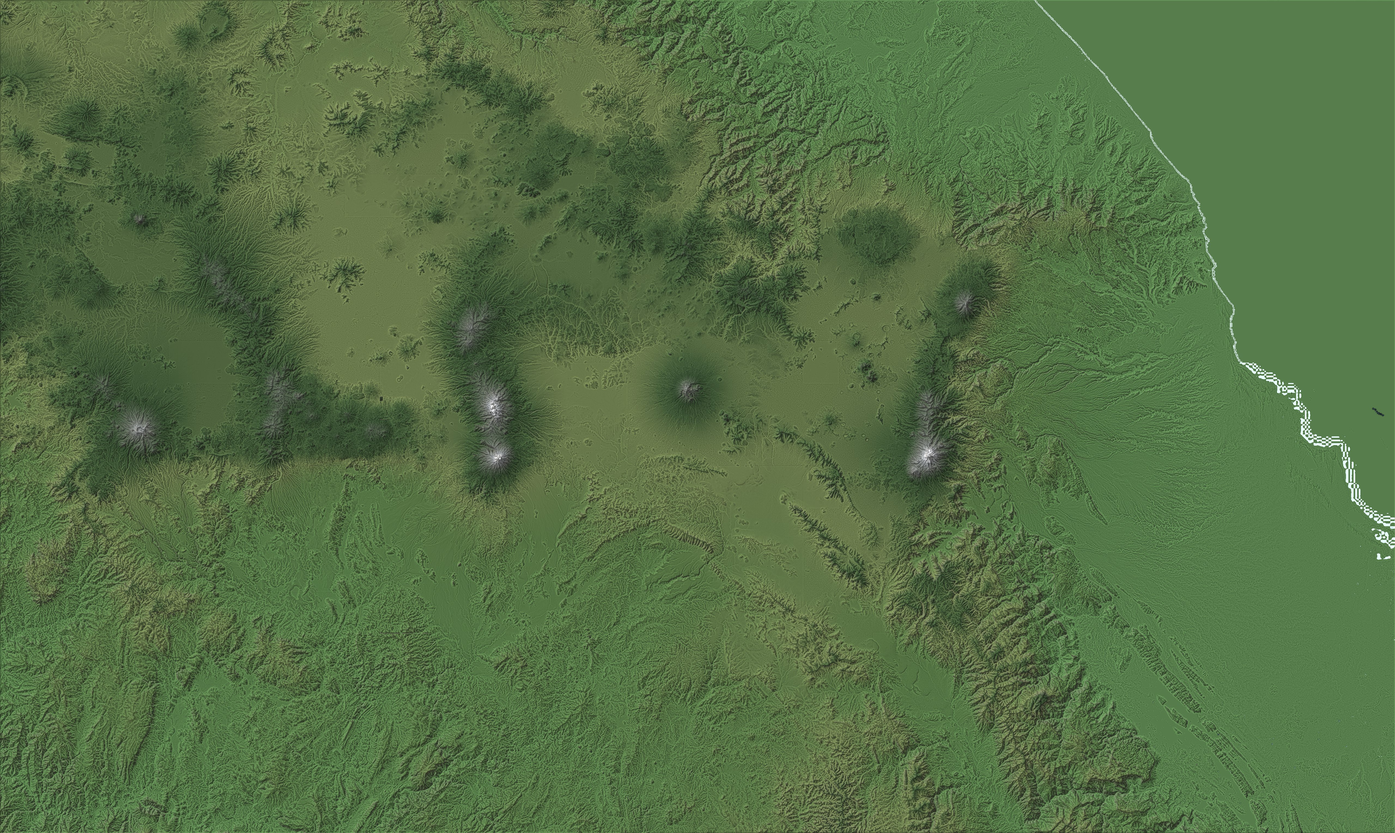
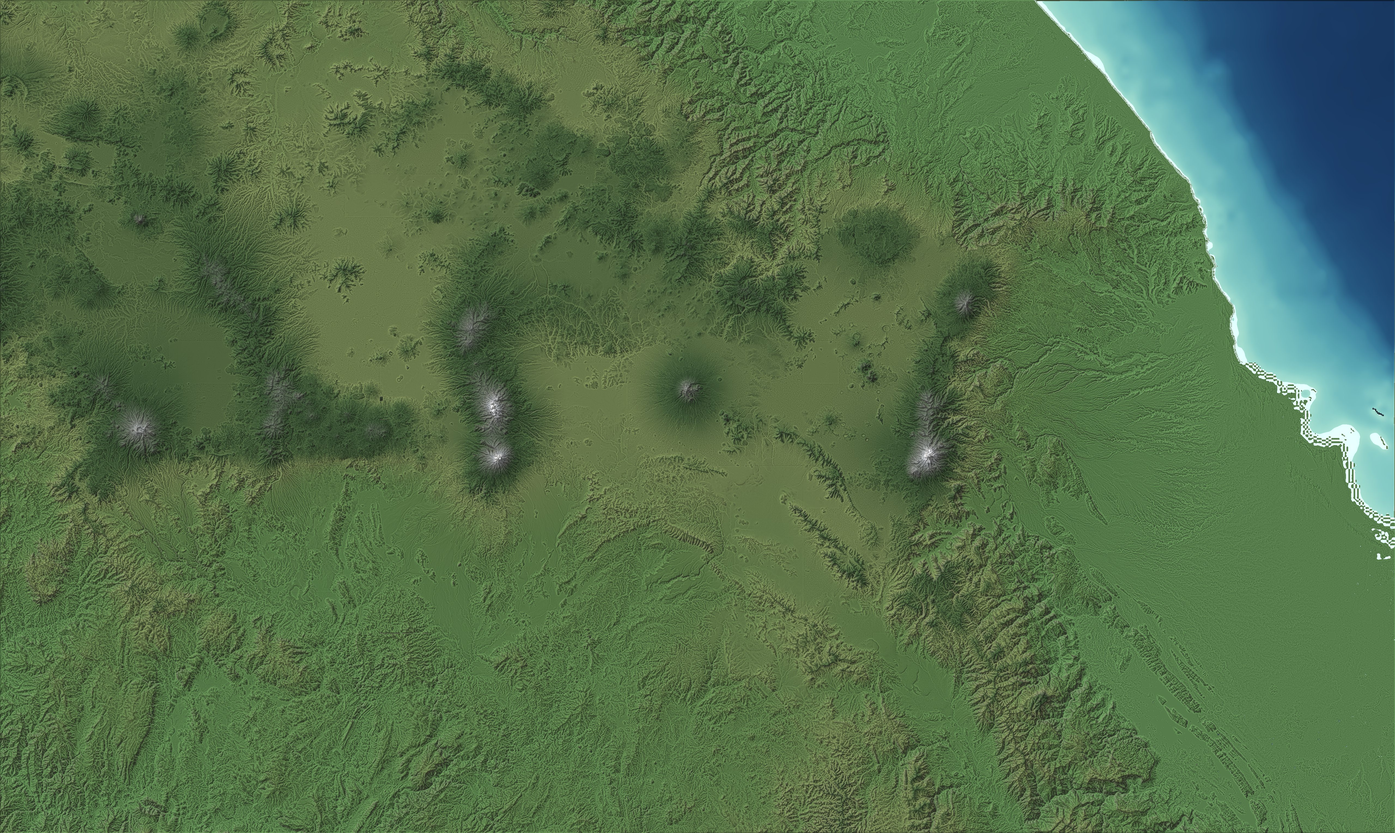
Water iter 3: no-data is not sea level, and img/ was never cache-busted
TWO REAL BUGS, both found by measuring instead of restyling.

1. Above z9 the terrain tiles carry NO bathymetry: every ocean pixel decodes
   to exactly 0.0 m. The land/sea test (E >= 0) then painted the Gulf as
   coastal LAND — 8.0% of the corridor grid, an olive sea with a hard seam
   where the corridor level ended. Bit-exact zero is now the no-data flag
   (real land at 0.000 m is vanishingly rare) and those pixels take their
   depth from the z9 mosaic, which does carry ETOPO; backfill smoothed,
   because a 4x-coarser grid pasted raw draws a terrace staircase that reads
   as sea-floor structure. Reported per view: corridor 8.0% -> 0.0%.

2. The build stamps CSS, JS and data but never img/. So the corrected ocean
   reached the browser as the OLD picture, and the fix looked like it had
   failed while the file on disk was already right. Terrain and card images
   now carry ?dv= too.

Also: sub-grid water fabric grown from measured relief — lineation only where
the floor is darker than its own neighbourhood, so flat abyss stays flat.

Changed region(s): [[0.75, 0.0, 1.0, 0.6209]]

diff --git a/docs/data/meta.js b/docs/data/meta.js
@@ -1,3 +1,3 @@
 /* GENERATED by Research/modeling/emit.py — do not hand-edit. */
 window.DATA = window.DATA || {};
-DATA.meta = {"t0":1502.0,"t1":1551.0,"step":0.02,"unit":"yr","speeds":[0.05,0.2,1,3,8,20],"dataVersion":"20260729-221816","timescale":[{"from":1502.0,"to":1519.1315,"w":0.22},{"from":1519.1315,"to":1521.6329,"w":0.56},{"from":1521.6329,"to":1551.0,"w":0.22}],"campaign":[1519.1315,1521.6329],"views":{"meso":{"lon0":-105.0,"lat0":13.5,"lon1":-86.5,"lat1":22.5,"label":"Mesoamerica"},"basin":{"lon0":-99.55,"lat0":19.02,"lon1":-98.55,"lat1":19.95,"label":"Basin of Mexico"},"city":{"lon0":-99.235,"lat0":19.325,"lon1":-99.03,"lat1":19.515,"label":"Tenochtitlan"}},"terrain":{"meso":{"lon0":-105.0,"lat0":13.5,"lon1":-86.5,"lat1":22.5},"corridor":{"lon0":-100.2,"lat0":17.9,"lon1":-95.8,"lat1":20.4},"basin":{"lon0":-99.55,"lat0":19.02,"lon1":-98.55,"lat1":19.95},"city":{"lon0":-99.32,"lat0":19.27,"lon1":-98.94,"lat1":19.57}},"layers":[{"id":"water","label":"Lakes & works (1519 reconstruction)","on":true},{"id":"altepetl","label":"Altepetl & allegiance","on":true},{"id":"epidemic","label":"Epidemic wave (modelled)","on":true},{"id":"tribute","label":"Tribute flows","on":true},{"id":"track","label":"Campaign track","on":true},{"id":"events","label":"Events","on":true},{"id":"works","label":"Causeways & aqueduct cards","on":true},{"id":"city","label":"City model (phased)","on":true},{"id":"figures","label":"Figures & life (impression)","on":true}],"siege":{"start":1521.386301369863,"end":1521.613698630137,"arteries":[{"id":"causeway-tlacopan","label":"Tlacopan causeway","cut":1521.3863,"confidence":"good"},{"id":"causeway-coyoacan","label":"Coyohuacan causeway","cut":1521.3863,"confidence":"good"},{"id":"causeway-iztapalapa","label":"Iztapalapan causeway","cut":1521.3863,"confidence":"good"},{"id":"aqueduct-chapultepec","label":"Chapultepec aqueduct (fresh water)","cut":1521.3973,"confidence":"good"},{"id":"lake","label":"The open lake (canoe supply)","cut":1521.4137,"confidence":"good"},{"id":"causeway-tepeyac","label":"Tepeyacac causeway","cut":1521.4384,"confidence":"moderate"}]},"epidemicBand":[30,50],"epidemicFront":{"lat":19.446,"lon":-96.404,"t0":1520.3552,"kmPerYear":844.3},"cityPhases":{"siege":1521.386301369863,"fall":1521.613698630137,"colonial":1522.0384},"stateColor":{"alliance-core":"#a83232","tributary":"#c96f4a","independent":"#7d5fb2","rival":"#8a6d3b","contested":"#d9a441","allied-coalition":"#3f8f6b","occupied":"#5a7d9a","colonial-ally":"#4a9a8f","new-spain":"#8a8f98","spanish":"#6b7fa8"},"stateLabel":{"alliance-core":"Triple Alliance seat","tributary":"Tributary","independent":"Independent","rival":"Rival empire","contested":"Contested","allied-coalition":"Coalition","occupied":"Occupied","colonial-ally":"Colonial ally (privileged)","new-spain":"New Spain","spanish":"Spanish foundation"},"about":{"what":"An interactive model of the fall of Tenochtitlan and its aftermath, 1502-1550: the tributary system, the coalition that pulled it apart, the siege, and the colonial consolidation — every polity's allegiance computed per day from dated, cited events.","naming":"\"Aztec\" appears in this project's title for findability only. It is a modern coinage and never a self-designation: this model says Mexica for the people, Triple Alliance for the polity, and each altepetl's own name — Nahuatl endonym first, Spanish exonym second.","notKnow":["The 1519 lake shoreline is a reconstruction (González Aparicio 1973), drawn here at visualization grade — the lakes were drained after the conquest.","The coastline and sierra are simplified authored cartography (the modern coast, at this drawing's resolution, stands in for 1519's); the epidemic layer is a modelled wave pinned only at its documented start and its documented arrival in the capital — every other onset is a window, not a record.","Indigenous force numbers are contested by an order of magnitude; population and epidemic mortality more. Every such quantity is a band, never a number.","Motive and speech are the least constrained things in the record. Contested episodes carry a 'What the sources say' section instead of a verdict.","Nahua calendar equivalents are correlations anchored at 13 Aug 1521 = 1 Cóatl; the correlation itself is contested and is labelled as such.","Allegiance below the altepetl is not modelled; 'contested' is the resolution floor. Post-war absorption dates marked 'modelled' are defaults, not records.","The 1524 Nuremberg woodcut is georeferenced and measured at a mean best-fit residual of 2.2 km (5.5 km at the city itself): topology, not geometry. It appears here as a document, and nothing in the model traces it.","Figure-scale scenes — the marching files, skirmishes, canoe traffic, porters, refugees, the city's house fabric and its trees — are procedural ARTISTIC IMPRESSIONS rooted in the accounts (Calnek's urban fabric; the chroniclers' canoe-borne city; the causeway exodus after the fall). Contingent sizes follow the model's own force bands; positions are deterministic seeds, not records. Nothing at figure scale is an attestation."],"sources":["Cortés, Cartas de relación (1519-26) — a legal self-defence, used as such","Bernal Díaz, Historia verdadera (c. 1568) — the soldiers' counter-memoir","Florentine Codex Book XII (c. 1555-79) — Nahua testimony, Tlatelolca vantage","Anales de Tlatelolco; Durán; Alva Ixtlilxóchitl; Muñoz Camargo","Codex Mendoza (Berdan & Anawalt 1992); Gerhard (1972); Smith & Berdan (1996)","González Aparicio (1973), Plano reconstructivo — the named lake reconstruction","Thomas (1993); Hassig (2006); Gibson (1964) — modern chronology and aftermath","Terrain: NASA/USGS SRTM elevation and NOAA ETOPO1 bathymetry via the AWS Open Data Terrain Tiles (Mapzen terrarium) — public domain sources, rendered by this project's own pipeline; the seasonal palette is a modelled rendering choice","Card images: public-domain scans via Wikimedia Commons (Newberry Library; Bodleian; Biblioteca Medicea Laurenziana; Library of Congress/Kislak; Uppsala University Library), each subject-verified and credited on its card"]},"updates":[{"version":"2.3","date":"28 July 2026","title":"The city, built","summary":"Tenochtitlan is no longer an outline with dots on it. Zoom in and the island has its fabric: blocks of courtyard compounds under lime and thatch, canals and streets with width, chinampa strips, jetties where the city meets its lake, the walled precinct with its stepped pyramid — and every other altepetl has a town of its own, on its own plan.","items":["The dense world moved to a canvas layer under the map, which is what makes thousands of buildings per frame affordable; everything you can click stays in the layer above it.","Blocks have grain: each shares an orientation off the canal line and a roofing material, with lordly four-wing compounds near the precinct, garden blocks, and tight commoner wards toward the water — Calnek's finding that lot sizes varied by an order of magnitude, made visible.","The sacred precincts are architecture: a walled, paved court with gates on the causeway axes, the great temple as five terraces with twin stairways and the shrines of Tlaloc and Huitzilopochtli, the round temple of Ehecatl, the ballcourt, the tzompantli, and the calmecac ranges along the walls.","Towns differ from each other: dispersed wards for Tlaxcallan's four cabeceras, compact plaza towns on the roads, linear towns along the lakeshore — and Cholula carries the Tlachihualtepetl, the greatest pyramid by volume in the Americas, grassed over already in 1519.","The siege is legible on the ground: the causeway breaches the defenders cut and the attackers spent the siege filling, the arteries reddening as each is severed, the island charring south to north under its smoke, and the market crowd thinning to nothing.","After 1522 the same ground rebuilds as the traza — red-tiled courtyard blocks around their patios, the plaza and cathedral on the razed precinct — while the Mexica parcialidades keep their old fabric at the edges.","Landscape detail is GROWN from the measured terrain rather than invented: the elevation data is 30 m and the screen asks for one, so woodland clusters where the ground is darker than its neighbourhood, with field terraces on worked land and grain over everything."]},{"version":"2.2","date":"27 July 2026","title":"Uniform ground, and the world peopled","summary":"The whole war theatre now carries the same sharp terrain — a new corridor render from Veracruz to the Basin ends the blur beyond the valley — and the model gains its figure scale: files of soldiers on the march, skirmishes you can watch, canoes on the lake, porters on the tribute roads, the exodus after the fall, and the island's own house fabric at street zoom. All of it impression, and labelled so.","items":["A z11 terrain level covers the corridor Veracruz-Tlaxcallan-Basin-Morelos, and the base map doubles to its data's native grain — the seam a reader rightly photographed east of the Basin is gone.","At street zoom Tenochtitlan fills with its houses — densest toward the precinct, charring south-to-north during the razing, rebuilt as orthogonal traza blocks after 1522 — with trees on the chinampa gardens.","The column marches as a file: a steel-grey Spanish file and the far longer tan allied file behind it, lengths scaled to the model's own force bands.","Battles play as scenes: defenders ring the ground, attackers close on it through the event's window; massacres close a ring instead. Deterministic in t — scrub back and the same scene replays.","The lake lives: canoe traffic runs between the shore towns and the island until the day the brigantines break the fleet, waterfowl drift indifferent, porters walk the tribute arcs while their towns still owe, and for six weeks after the fall the causeways carry the grey file of the exodus.","Every figure-scale element is a seeded procedural impression rooted in the accounts — counts from the force bands, nothing at figure scale an attestation — stated in About and on the layer's own name."]},{"version":"2.1","date":"27 July 2026","title":"The city itself, and the war in motion","summary":"Tenochtitlan stops being an outline: precincts, palaces, the canal fabric, the chinampa skirts and the four campan, phased across the timeline — intact, besieged and burning, ruined, then colonial. The terrain sharpens to its data's native grain, and events stop being identical diamonds: the column marches, battles pulse, the epidemic front expands, the arteries redden as they are cut.","items":["The city model (drawn from Calnek, the excavations and the street fossils of the modern Centro): sacred precincts, the palaces of Axayácatl and Moctezuma, the great market, schematic canals — dashed because schematic — chinampa fringes, then the colonial traza and its churches after 1522. Every element is a card; the same place reads differently in 1519 and 1540.","City events sit where they happened: the meeting at Xoloc on the causeway, the seizure in Axayácatl's palace, Tóxcatl in the precinct courtyard, the last stand in Tlatelolco's market — and labels stack instead of overprinting, so the plague year's crowded weeks read cleanly.","The war moves: the column is drawn in transit between its dated waypoints; battles and massacres pulse rings for days after their date; the arteries turn crimson as each is cut; brigantines hold the lake; smoke stands over the razing; the epidemic's modelled front expands from the coast.","Terrain at native grain (z9/z12) with curvature-shaded ravines and rock on steep ground — and a rendering lesson kept honest: the first city render amplified upsampling noise into a checkerboard, was caught visually, and the curvature now fades below the data's 30 m grain."]},{"version":"2.0","date":"27 July 2026","title":"A living landscape, a continuous camera, and the record illustrated","summary":"The map becomes terrain: real elevation and ocean depth (NASA SRTM and NOAA ETOPO), hillshaded and breathing with the wet and dry seasons. The camera zooms freely between the scales. Chapters open as illustrated cards, and the record's own images — codices, the Lienzo, the 1524 woodcut — appear on the cards they belong to, each with its credit.","items":["Terrain everywhere: the Basin's ravined sierra, the drained lakebed under the reconstructed 1519 lakes, the Gulf's turquoise shelf and the Pacific trench — measured data, rendered wet and dry; the seasons crossfade as the year turns.","Popocatépetl smokes for its attested 1519-1528 active years (see 'Ordaz climbs the smoking mountain'), and cloud shadows thicken with the rains.","Zoom with the wheel, pan by dragging, or fly between the three named scales; the terrain streams in sharper as you approach.","Chapters are cards now: click one for the period's story, its image and its events. Ten illustrated with the record's own pictures — Mendoza folios, Book XII's smallpox plate, the Lienzo de Tlaxcala, the Kislak Sad Night, the Uppsala map.","The 1524 Nuremberg map is georeferenced and measured: best-fit residual 2.2 km (5.5 km at the city) — beautiful topology, unusable geometry, and the About panel now says exactly that with the number.","Every image is public domain, subject-verified, and credited on its card; the five searches that found nothing licence-safe are recorded as negatives in the manifest rather than papered over."]},{"version":"1.1","date":"27 July 2026","title":"The land under the war — and the war's slower weapons","summary":"The map now has its ground: coasts, seas, the sierras and the named volcanoes (a first-release report said, correctly, that the map was a black background). And two layers stop being scenery: the smallpox is a modelled wave, and the siege is a derived state.","items":["Land and sea: a simplified authored coastline, the Gulf and Pacific, the great sierras and eight named peaks — including the two volcanoes whose pass the column crossed in November 1519.","The epidemic is a mechanism now: a wave on the settlement network, seeded at the coast in May 1520 and calibrated to the documented sixty days in the capital from October — every polity shows its modelled onset window, and mortality stays a band (30-50%, contested).","The siege is derived, not narrated: six arteries — four causeways, the aqueduct, the open lake — each cut by a dated, cited event; a panel counts the tourniquets 0 to 6 between 22 May and 13 August 1521.","Eighteen people join the model as time-aware cards — the three last tlahtohqueh, Malintzin (with the four-century argument about her carried as accounts), the Tlaxcalteca leadership, and the aftermath's builders.","Twenty-five new events carry the record to ~90, including the contested Guadalupe tradition (dated as tradition, with the documentary silence stated), don Carlos of Texcoco's burning, the Colegio de Tlatelolco, and Sahagún beginning the interviews that became this model's own chief source.","Province cards now list their principal Mendoza tribute — cacao, quetzal feathers, gold dust, cochineal — so the web the coalition broke is legible good by good."]},{"version":"1.0","date":"27 July 2026","title":"The coalition is on the map","summary":"First release. The map draws allegiance per altepetl per day — 75 polities through the war and its aftermath — instead of a two-colour conquest.","items":["Every polity's standing (tributary, contested, coalition, occupied, New Spain) is computed from 64 dated, cited events; the mid-siege map shows 24 allied and 12 occupied against 30 still-tributary — the coalition, visibly.","Contested episodes — Cholula, Tóxcatl, Moctezuma's death and his famous 'surrender' — carry a 'What the sources say' section naming who claims what and why each would.","The lakes, causeways, dike and aqueduct follow González Aparicio's 1973 reconstruction, scored against the Templo Mayor anchor table (residuals under 6 m; no town drawn in the water).","The timeline gives the two war years 56% of the track at day resolution, with the scale breaks drawn; dates are Julian, with Nahua equivalents labelled as the correlations they are.","Force numbers appear only as ranges: at the siege, 700-950 Spaniards beside 24,000-200,000 Nahua allies — the sources are parties to every count."]}]};
+DATA.meta = {"t0":1502.0,"t1":1551.0,"step":0.02,"unit":"yr","speeds":[0.05,0.2,1,3,8,20],"dataVersion":"20260729-224912","timescale":[{"from":1502.0,"to":1519.1315,"w":0.22},{"from":1519.1315,"to":1521.6329,"w":0.56},{"from":1521.6329,"to":1551.0,"w":0.22}],"campaign":[1519.1315,1521.6329],"views":{"meso":{"lon0":-105.0,"lat0":13.5,"lon1":-86.5,"lat1":22.5,"label":"Mesoamerica"},"basin":{"lon0":-99.55,"lat0":19.02,"lon1":-98.55,"lat1":19.95,"label":"Basin of Mexico"},"city":{"lon0":-99.235,"lat0":19.325,"lon1":-99.03,"lat1":19.515,"label":"Tenochtitlan"}},"terrain":{"meso":{"lon0":-105.0,"lat0":13.5,"lon1":-86.5,"lat1":22.5},"corridor":{"lon0":-100.2,"lat0":17.9,"lon1":-95.8,"lat1":20.4},"basin":{"lon0":-99.55,"lat0":19.02,"lon1":-98.55,"lat1":19.95},"city":{"lon0":-99.32,"lat0":19.27,"lon1":-98.94,"lat1":19.57}},"layers":[{"id":"water","label":"Lakes & works (1519 reconstruction)","on":true},{"id":"altepetl","label":"Altepetl & allegiance","on":true},{"id":"epidemic","label":"Epidemic wave (modelled)","on":true},{"id":"tribute","label":"Tribute flows","on":true},{"id":"track","label":"Campaign track","on":true},{"id":"events","label":"Events","on":true},{"id":"works","label":"Causeways & aqueduct cards","on":true},{"id":"city","label":"City model (phased)","on":true},{"id":"figures","label":"Figures & life (impression)","on":true}],"siege":{"start":1521.386301369863,"end":1521.613698630137,"arteries":[{"id":"causeway-tlacopan","label":"Tlacopan causeway","cut":1521.3863,"confidence":"good"},{"id":"causeway-coyoacan","label":"Coyohuacan causeway","cut":1521.3863,"confidence":"good"},{"id":"causeway-iztapalapa","label":"Iztapalapan causeway","cut":1521.3863,"confidence":"good"},{"id":"aqueduct-chapultepec","label":"Chapultepec aqueduct (fresh water)","cut":1521.3973,"confidence":"good"},{"id":"lake","label":"The open lake (canoe supply)","cut":1521.4137,"confidence":"good"},{"id":"causeway-tepeyac","label":"Tepeyacac causeway","cut":1521.4384,"confidence":"moderate"}]},"epidemicBand":[30,50],"epidemicFront":{"lat":19.446,"lon":-96.404,"t0":1520.3552,"kmPerYear":844.3},"cityPhases":{"siege":1521.386301369863,"fall":1521.613698630137,"colonial":1522.0384},"stateColor":{"alliance-core":"#a83232","tributary":"#c96f4a","independent":"#7d5fb2","rival":"#8a6d3b","contested":"#d9a441","allied-coalition":"#3f8f6b","occupied":"#5a7d9a","colonial-ally":"#4a9a8f","new-spain":"#8a8f98","spanish":"#6b7fa8"},"stateLabel":{"alliance-core":"Triple Alliance seat","tributary":"Tributary","independent":"Independent","rival":"Rival empire","contested":"Contested","allied-coalition":"Coalition","occupied":"Occupied","colonial-ally":"Colonial ally (privileged)","new-spain":"New Spain","spanish":"Spanish foundation"},"about":{"what":"An interactive model of the fall of Tenochtitlan and its aftermath, 1502-1550: the tributary system, the coalition that pulled it apart, the siege, and the colonial consolidation — every polity's allegiance computed per day from dated, cited events.","naming":"\"Aztec\" appears in this project's title for findability only. It is a modern coinage and never a self-designation: this model says Mexica for the people, Triple Alliance for the polity, and each altepetl's own name — Nahuatl endonym first, Spanish exonym second.","notKnow":["The 1519 lake shoreline is a reconstruction (González Aparicio 1973), drawn here at visualization grade — the lakes were drained after the conquest.","The coastline and sierra are simplified authored cartography (the modern coast, at this drawing's resolution, stands in for 1519's); the epidemic layer is a modelled wave pinned only at its documented start and its documented arrival in the capital — every other onset is a window, not a record.","Indigenous force numbers are contested by an order of magnitude; population and epidemic mortality more. Every such quantity is a band, never a number.","Motive and speech are the least constrained things in the record. Contested episodes carry a 'What the sources say' section instead of a verdict.","Nahua calendar equivalents are correlations anchored at 13 Aug 1521 = 1 Cóatl; the correlation itself is contested and is labelled as such.","Allegiance below the altepetl is not modelled; 'contested' is the resolution floor. Post-war absorption dates marked 'modelled' are defaults, not records.","The 1524 Nuremberg woodcut is georeferenced and measured at a mean best-fit residual of 2.2 km (5.5 km at the city itself): topology, not geometry. It appears here as a document, and nothing in the model traces it.","Figure-scale scenes — the marching files, skirmishes, canoe traffic, porters, refugees, the city's house fabric and its trees — are procedural ARTISTIC IMPRESSIONS rooted in the accounts (Calnek's urban fabric; the chroniclers' canoe-borne city; the causeway exodus after the fall). Contingent sizes follow the model's own force bands; positions are deterministic seeds, not records. Nothing at figure scale is an attestation."],"sources":["Cortés, Cartas de relación (1519-26) — a legal self-defence, used as such","Bernal Díaz, Historia verdadera (c. 1568) — the soldiers' counter-memoir","Florentine Codex Book XII (c. 1555-79) — Nahua testimony, Tlatelolca vantage","Anales de Tlatelolco; Durán; Alva Ixtlilxóchitl; Muñoz Camargo","Codex Mendoza (Berdan & Anawalt 1992); Gerhard (1972); Smith & Berdan (1996)","González Aparicio (1973), Plano reconstructivo — the named lake reconstruction","Thomas (1993); Hassig (2006); Gibson (1964) — modern chronology and aftermath","Terrain: NASA/USGS SRTM elevation and NOAA ETOPO1 bathymetry via the AWS Open Data Terrain Tiles (Mapzen terrarium) — public domain sources, rendered by this project's own pipeline; the seasonal palette is a modelled rendering choice","Card images: public-domain scans via Wikimedia Commons (Newberry Library; Bodleian; Biblioteca Medicea Laurenziana; Library of Congress/Kislak; Uppsala University Library), each subject-verified and credited on its card"]},"updates":[{"version":"2.3","date":"28 July 2026","title":"The city, built","summary":"Tenochtitlan is no longer an outline with dots on it. Zoom in and the island has its fabric: blocks of courtyard compounds under lime and thatch, canals and streets with width, chinampa strips, jetties where the city meets its lake, the walled precinct with its stepped pyramid — and every other altepetl has a town of its own, on its own plan.","items":["The dense world moved to a canvas layer under the map, which is what makes thousands of buildings per frame affordable; everything you can click stays in the layer above it.","Blocks have grain: each shares an orientation off the canal line and a roofing material, with lordly four-wing compounds near the precinct, garden blocks, and tight commoner wards toward the water — Calnek's finding that lot sizes varied by an order of magnitude, made visible.","The sacred precincts are architecture: a walled, paved court with gates on the causeway axes, the great temple as five terraces with twin stairways and the shrines of Tlaloc and Huitzilopochtli, the round temple of Ehecatl, the ballcourt, the tzompantli, and the calmecac ranges along the walls.","Towns differ from each other: dispersed wards for Tlaxcallan's four cabeceras, compact plaza towns on the roads, linear towns along the lakeshore — and Cholula carries the Tlachihualtepetl, the greatest pyramid by volume in the Americas, grassed over already in 1519.","The siege is legible on the ground: the causeway breaches the defenders cut and the attackers spent the siege filling, the arteries reddening as each is severed, the island charring south to north under its smoke, and the market crowd thinning to nothing.","After 1522 the same ground rebuilds as the traza — red-tiled courtyard blocks around their patios, the plaza and cathedral on the razed precinct — while the Mexica parcialidades keep their old fabric at the edges.","Landscape detail is GROWN from the measured terrain rather than invented: the elevation data is 30 m and the screen asks for one, so woodland clusters where the ground is darker than its neighbourhood, with field terraces on worked land and grain over everything."]},{"version":"2.2","date":"27 July 2026","title":"Uniform ground, and the world peopled","summary":"The whole war theatre now carries the same sharp terrain — a new corridor render from Veracruz to the Basin ends the blur beyond the valley — and the model gains its figure scale: files of soldiers on the march, skirmishes you can watch, canoes on the lake, porters on the tribute roads, the exodus after the fall, and the island's own house fabric at street zoom. All of it impression, and labelled so.","items":["A z11 terrain level covers the corridor Veracruz-Tlaxcallan-Basin-Morelos, and the base map doubles to its data's native grain — the seam a reader rightly photographed east of the Basin is gone.","At street zoom Tenochtitlan fills with its houses — densest toward the precinct, charring south-to-north during the razing, rebuilt as orthogonal traza blocks after 1522 — with trees on the chinampa gardens.","The column marches as a file: a steel-grey Spanish file and the far longer tan allied file behind it, lengths scaled to the model's own force bands.","Battles play as scenes: defenders ring the ground, attackers close on it through the event's window; massacres close a ring instead. Deterministic in t — scrub back and the same scene replays.","The lake lives: canoe traffic runs between the shore towns and the island until the day the brigantines break the fleet, waterfowl drift indifferent, porters walk the tribute arcs while their towns still owe, and for six weeks after the fall the causeways carry the grey file of the exodus.","Every figure-scale element is a seeded procedural impression rooted in the accounts — counts from the force bands, nothing at figure scale an attestation — stated in About and on the layer's own name."]},{"version":"2.1","date":"27 July 2026","title":"The city itself, and the war in motion","summary":"Tenochtitlan stops being an outline: precincts, palaces, the canal fabric, the chinampa skirts and the four campan, phased across the timeline — intact, besieged and burning, ruined, then colonial. The terrain sharpens to its data's native grain, and events stop being identical diamonds: the column marches, battles pulse, the epidemic front expands, the arteries redden as they are cut.","items":["The city model (drawn from Calnek, the excavations and the street fossils of the modern Centro): sacred precincts, the palaces of Axayácatl and Moctezuma, the great market, schematic canals — dashed because schematic — chinampa fringes, then the colonial traza and its churches after 1522. Every element is a card; the same place reads differently in 1519 and 1540.","City events sit where they happened: the meeting at Xoloc on the causeway, the seizure in Axayácatl's palace, Tóxcatl in the precinct courtyard, the last stand in Tlatelolco's market — and labels stack instead of overprinting, so the plague year's crowded weeks read cleanly.","The war moves: the column is drawn in transit between its dated waypoints; battles and massacres pulse rings for days after their date; the arteries turn crimson as each is cut; brigantines hold the lake; smoke stands over the razing; the epidemic's modelled front expands from the coast.","Terrain at native grain (z9/z12) with curvature-shaded ravines and rock on steep ground — and a rendering lesson kept honest: the first city render amplified upsampling noise into a checkerboard, was caught visually, and the curvature now fades below the data's 30 m grain."]},{"version":"2.0","date":"27 July 2026","title":"A living landscape, a continuous camera, and the record illustrated","summary":"The map becomes terrain: real elevation and ocean depth (NASA SRTM and NOAA ETOPO), hillshaded and breathing with the wet and dry seasons. The camera zooms freely between the scales. Chapters open as illustrated cards, and the record's own images — codices, the Lienzo, the 1524 woodcut — appear on the cards they belong to, each with its credit.","items":["Terrain everywhere: the Basin's ravined sierra, the drained lakebed under the reconstructed 1519 lakes, the Gulf's turquoise shelf and the Pacific trench — measured data, rendered wet and dry; the seasons crossfade as the year turns.","Popocatépetl smokes for its attested 1519-1528 active years (see 'Ordaz climbs the smoking mountain'), and cloud shadows thicken with the rains.","Zoom with the wheel, pan by dragging, or fly between the three named scales; the terrain streams in sharper as you approach.","Chapters are cards now: click one for the period's story, its image and its events. Ten illustrated with the record's own pictures — Mendoza folios, Book XII's smallpox plate, the Lienzo de Tlaxcala, the Kislak Sad Night, the Uppsala map.","The 1524 Nuremberg map is georeferenced and measured: best-fit residual 2.2 km (5.5 km at the city) — beautiful topology, unusable geometry, and the About panel now says exactly that with the number.","Every image is public domain, subject-verified, and credited on its card; the five searches that found nothing licence-safe are recorded as negatives in the manifest rather than papered over."]},{"version":"1.1","date":"27 July 2026","title":"The land under the war — and the war's slower weapons","summary":"The map now has its ground: coasts, seas, the sierras and the named volcanoes (a first-release report said, correctly, that the map was a black background). And two layers stop being scenery: the smallpox is a modelled wave, and the siege is a derived state.","items":["Land and sea: a simplified authored coastline, the Gulf and Pacific, the great sierras and eight named peaks — including the two volcanoes whose pass the column crossed in November 1519.","The epidemic is a mechanism now: a wave on the settlement network, seeded at the coast in May 1520 and calibrated to the documented sixty days in the capital from October — every polity shows its modelled onset window, and mortality stays a band (30-50%, contested).","The siege is derived, not narrated: six arteries — four causeways, the aqueduct, the open lake — each cut by a dated, cited event; a panel counts the tourniquets 0 to 6 between 22 May and 13 August 1521.","Eighteen people join the model as time-aware cards — the three last tlahtohqueh, Malintzin (with the four-century argument about her carried as accounts), the Tlaxcalteca leadership, and the aftermath's builders.","Twenty-five new events carry the record to ~90, including the contested Guadalupe tradition (dated as tradition, with the documentary silence stated), don Carlos of Texcoco's burning, the Colegio de Tlatelolco, and Sahagún beginning the interviews that became this model's own chief source.","Province cards now list their principal Mendoza tribute — cacao, quetzal feathers, gold dust, cochineal — so the web the coalition broke is legible good by good."]},{"version":"1.0","date":"27 July 2026","title":"The coalition is on the map","summary":"First release. The map draws allegiance per altepetl per day — 75 polities through the war and its aftermath — instead of a two-colour conquest.","items":["Every polity's standing (tributary, contested, coalition, occupied, New Spain) is computed from 64 dated, cited events; the mid-siege map shows 24 allied and 12 occupied against 30 still-tributary — the coalition, visibly.","Contested episodes — Cholula, Tóxcatl, Moctezuma's death and his famous 'surrender' — carry a 'What the sources say' section naming who claims what and why each would.","The lakes, causeways, dike and aqueduct follow González Aparicio's 1973 reconstruction, scored against the Templo Mayor anchor table (residuals under 6 m; no town drawn in the water).","The timeline gives the two war years 56% of the track at day resolution, with the scale breaks drawn; dates are Julian, with Nahua equivalents labelled as the correlations they are.","Force numbers appear only as ranges: at the siege, 700-950 Spaniards beside 24,000-200,000 Nahua allies — the sources are parties to every count."]}]};

diff --git a/docs/js/app.js b/docs/js/app.js
@@ -236,11 +236,19 @@ function sampleTerrain(id, img) {
                       mean: sum / (data.length / 4)};
 }
 
+/* Images must carry the data version too. The build stamps CSS, JS and data
+ * but NOT img/, so a re-rendered basemap reached a returning viewer as the
+ * OLD picture — the same silent staleness the deploy rules warn about, and it
+ * cost a full diagnosis loop when a fixed ocean still looked broken on screen
+ * while the file on disk was already correct. */
+const DV = (window.DATA && DATA.meta && DATA.meta.dataVersion) || 'dev';
+const bust = url => url + (url.indexOf('?') < 0 ? '?dv=' : '&dv=') + DV;
+
 function preloadTerrain() {
   for (const tr of TERRAIN) for (const s of ['dry', 'wet']) {
     const im = new Image();
     im.onload = () => { if (s === 'dry') sampleTerrain(tr.id, im); render(); };
-    im.src = `img/terrain-${tr.id}-${s}.jpg`;
+    im.src = bust(`img/terrain-${tr.id}-${s}.jpg`);
     TERRAIN_IMG[tr.id + '-' + s] = im;
   }
 }
@@ -396,7 +404,37 @@ function drawGroundDetail() {
       const smp = sampleGround(lon, lat);
       if (!smp) continue;
       const [R, G, B, meanLum] = smp;
-      if (B > G + 6) continue;                     // water, in any of its blues
+      if (B > G + 6) {
+        // WATER. The sea floor's relief is real ETOPO, but its grid runs out
+        // before the screen does — the same ceiling as the land. So sub-grid
+        // fabric is GROWN from the measured relief: lineation only where the
+        // floor is genuinely darker than its own neighbourhood (a slope, a
+        // scarp, a trench wall), aligned to a slowly-turning field. Flat
+        // abyss stays flat, which is the truth about it.
+        if (span > 0.9) continue;
+        let ws = 0, wn = 0;
+        for (const [dl, dt] of [[0.006, 0], [-0.006, 0], [0, 0.006], [0, -0.006]]) {
+          const nb = sampleGround(lon + dl, lat + dt);
+          if (nb) { ws += (nb[0] + nb[1] + nb[2]) / 3; wn++; }
+        }
+        const wl = (R + G + B) / 3;
+        const wLocal = wn ? (ws + wl) / (wn + 1) : wl;
+        const relief = Math.max(0, (wLocal - wl) / 9);
+        if (relief < 0.12 || rnd(s + 11) > Math.min(0.5, relief * 0.5)) continue;
+        const [wx, wy] = project(lon, lat);
+        if (wx < 0 || wy < 0 || wx > PROJ.W || wy > PROJ.H) continue;
+        const wa = (smoothNoise(lon, lat, 0.05) - 0.5) * 2.0 + 0.4;
+        const len = sz * (2.2 + rnd(s + 12) * 2.4);
+        ctx.strokeStyle = `rgba(${Math.max(6, R * 0.62) | 0},${Math.max(16, G * 0.66) | 0},` +
+                          `${Math.max(34, B * 0.72) | 0},` +
+                          `${Math.min(0.34, relief * 0.30).toFixed(3)})`;
+        ctx.lineWidth = Math.max(0.5, sz * 0.42);
+        ctx.beginPath();
+        ctx.moveTo(wx - Math.cos(wa) * len, wy - Math.sin(wa) * len);
+        ctx.lineTo(wx + Math.cos(wa) * len, wy + Math.sin(wa) * len);
+        ctx.stroke();
+        continue;
+      }
       if (fp && pointInPoly(lat, lon, fp)) continue;   // the island has its fabric
       const [x, y] = project(lon + (rnd(s) - 0.5) * step * 0.95,
                              lat + (rnd(s + 1) - 0.5) * step * 0.95);
@@ -2112,7 +2150,7 @@ function openCard(o) {
 
   let body = '';
   if (o.image) {
-    body += `<img class="cardimg" src="${esc(o.image.src)}" alt="">` +
+    body += `<img class="cardimg" src="${esc(bust(o.image.src))}" alt="">` +
             `<div class="imgcap">${esc(o.image.caption)}</div>` +
             `<div class="imgcredit">${esc(o.image.credit)}</div>`;
   }

diff --git a/web/js/app.js b/web/js/app.js
@@ -236,11 +236,19 @@ function sampleTerrain(id, img) {
                       mean: sum / (data.length / 4)};
 }
 
+/* Images must carry the data version too. The build stamps CSS, JS and data
+ * but NOT img/, so a re-rendered basemap reached a returning viewer as the
+ * OLD picture — the same silent staleness the deploy rules warn about, and it
+ * cost a full diagnosis loop when a fixed ocean still looked broken on screen
+ * while the file on disk was already correct. */
+const DV = (window.DATA && DATA.meta && DATA.meta.dataVersion) || 'dev';
+const bust = url => url + (url.indexOf('?') < 0 ? '?dv=' : '&dv=') + DV;
+
 function preloadTerrain() {
   for (const tr of TERRAIN) for (const s of ['dry', 'wet']) {
     const im = new Image();
     im.onload = () => { if (s === 'dry') sampleTerrain(tr.id, im); render(); };
-    im.src = `img/terrain-${tr.id}-${s}.jpg`;
+    im.src = bust(`img/terrain-${tr.id}-${s}.jpg`);
     TERRAIN_IMG[tr.id + '-' + s] = im;
   }
 }
@@ -396,7 +404,37 @@ function drawGroundDetail() {
       const smp = sampleGround(lon, lat);
       if (!smp) continue;
       const [R, G, B, meanLum] = smp;
-      if (B > G + 6) continue;                     // water, in any of its blues
+      if (B > G + 6) {
+        // WATER. The sea floor's relief is real ETOPO, but its grid runs out
+        // before the screen does — the same ceiling as the land. So sub-grid
+        // fabric is GROWN from the measured relief: lineation only where the
+        // floor is genuinely darker than its own neighbourhood (a slope, a
+        // scarp, a trench wall), aligned to a slowly-turning field. Flat
+        // abyss stays flat, which is the truth about it.
+        if (span > 0.9) continue;
+        let ws = 0, wn = 0;
+        for (const [dl, dt] of [[0.006, 0], [-0.006, 0], [0, 0.006], [0, -0.006]]) {
+          const nb = sampleGround(lon + dl, lat + dt);
+          if (nb) { ws += (nb[0] + nb[1] + nb[2]) / 3; wn++; }
+        }
+        const wl = (R + G + B) / 3;
+        const wLocal = wn ? (ws + wl) / (wn + 1) : wl;
+        const relief = Math.max(0, (wLocal - wl) / 9);
+        if (relief < 0.12 || rnd(s + 11) > Math.min(0.5, relief * 0.5)) continue;
+        const [wx, wy] = project(lon, lat);
+        if (wx < 0 || wy < 0 || wx > PROJ.W || wy > PROJ.H) continue;
+        const wa = (smoothNoise(lon, lat, 0.05) - 0.5) * 2.0 + 0.4;
+        const len = sz * (2.2 + rnd(s + 12) * 2.4);
+        ctx.strokeStyle = `rgba(${Math.max(6, R * 0.62) | 0},${Math.max(16, G * 0.66) | 0},` +
+                          `${Math.max(34, B * 0.72) | 0},` +
+                          `${Math.min(0.34, relief * 0.30).toFixed(3)})`;
+        ctx.lineWidth = Math.max(0.5, sz * 0.42);
+        ctx.beginPath();
+        ctx.moveTo(wx - Math.cos(wa) * len, wy - Math.sin(wa) * len);
+        ctx.lineTo(wx + Math.cos(wa) * len, wy + Math.sin(wa) * len);
+        ctx.stroke();
+        continue;
+      }
       if (fp && pointInPoly(lat, lon, fp)) continue;   // the island has its fabric
       const [x, y] = project(lon + (rnd(s) - 0.5) * step * 0.95,
                              lat + (rnd(s + 1) - 0.5) * step * 0.95);
@@ -2112,7 +2150,7 @@ function openCard(o) {
 
   let body = '';
   if (o.image) {
-    body += `<img class="cardimg" src="${esc(o.image.src)}" alt="">` +
+    body += `<img class="cardimg" src="${esc(bust(o.image.src))}" alt="">` +
             `<div class="imgcap">${esc(o.image.caption)}</div>` +
             `<div class="imgcredit">${esc(o.image.credit)}</div>`;
   }

diff --git a/docs/index.html b/docs/index.html
@@ -4,7 +4,7 @@
 <meta charset="utf-8">
 <meta name="viewport" content="width=device-width,initial-scale=1">
 <title>Aztec Conquest</title>
-<link rel="stylesheet" href="css/styles.css?dv=20260729-221816">
+<link rel="stylesheet" href="css/styles.css?dv=20260729-224912">
 </head>
 <body>
 
@@ -122,11 +122,11 @@
   </div>
 </div>
 
-<script src="data/meta.js?dv=20260729-221816"></script>
-<script src="data/eras.js?dv=20260729-221816"></script>
-<script src="data/entities.js?dv=20260729-221816"></script>
-<script src="data/eventsFull.js?dv=20260729-221816"></script>
-<script src="data/geo.js?dv=20260729-221816"></script>
-<script src="js/app.js?dv=20260729-221816"></script>
+<script src="data/meta.js?dv=20260729-224912"></script>
+<script src="data/eras.js?dv=20260729-224912"></script>
+<script src="data/entities.js?dv=20260729-224912"></script>
+<script src="data/eventsFull.js?dv=20260729-224912"></script>
+<script src="data/geo.js?dv=20260729-224912"></script>
+<script src="js/app.js?dv=20260729-224912"></script>
 </body>
 </html>

diff --git a/build/terrain.py b/build/terrain.py
@@ -70,8 +70,10 @@ def merc_xy(lon, lat, z):
     return x, y
 
 
-def fetch_tiles(view):
+def fetch_tiles(view, zoom=None):
     lon0, lat0, lon1, lat1, z, _ = VIEWS[view]
+    if zoom is not None:
+        z = zoom
     x0, y0 = merc_xy(lon0, lat1, z)          # top-left
     x1, y1 = merc_xy(lon1, lat0, z)          # bottom-right
     xs = range(int(x0), int(x1) + 1)
@@ -101,9 +103,9 @@ def fetch_tiles(view):
     return (int(x0), int(y0), int(x1), int(y1), z)
 
 
-def mosaic(view):
+def mosaic(view, zoom=None):
     """Elevation mosaic (float32 metres) + its mercator pixel origin."""
-    x0, y0, x1, y1, z = fetch_tiles(view)
+    x0, y0, x1, y1, z = fetch_tiles(view, zoom)
     W, H = (x1 - x0 + 1) * 256, (y1 - y0 + 1) * 256
     E = np.zeros((H, W), np.float32)
     for tx in range(x0, x1 + 1):
@@ -116,12 +118,14 @@ def mosaic(view):
     return E, x0, y0, z
 
 
-def sample_equirect(view):
+def sample_equirect(view, zoom=None):
     """Resample the mercator mosaic onto the app's plate-carrée grid."""
     lon0, lat0, lon1, lat1, z, W = VIEWS[view]
+    if zoom is not None:
+        z = zoom
     kx = math.cos(math.radians((lat0 + lat1) / 2.0))
     H = int(round(W * ((lat1 - lat0) * 110.6) / ((lon1 - lon0) * 111.32 * kx)))
-    E, mx0, my0, z = mosaic(view)
+    E, mx0, my0, z = mosaic(view, zoom)
     lons = np.linspace(lon0, lon1, W, dtype=np.float64)
     lats = np.linspace(lat1, lat0, H, dtype=np.float64)      # top row = north
     n = 2.0 ** z
@@ -170,6 +174,29 @@ OCEAN = [(-6500, (9, 20, 44)), (-4500, (13, 30, 60)), (-3000, (18, 42, 78)),
 
 def render(view):
     E, mpp = sample_equirect(view)
+    # NO-DATA IS NOT SEA LEVEL. Above z9 the terrarium tiles carry no
+    # bathymetry: every ocean pixel decodes to exactly 0.0 m, which the
+    # land/sea test (E >= 0) then painted as coastal LAND — the Gulf came out
+    # olive inside the corridor's footprint, 8% of that grid. Real land at
+    # exactly 0.000 m is vanishingly rare, so bit-exact zero is the no-data
+    # flag; those pixels take their depth from the z9 mosaic, which does carry
+    # ETOPO. Measured and reported rather than patched by eye.
+    nod = (E == 0.0)
+    frac = float(np.mean(nod))
+    if frac > 0.001:
+        Ez9, _ = sample_equirect(view, zoom=min(9, VIEWS[view][4]))
+        # The z9 grid is ~4x coarser than the level it is filling, so pasted
+        # raw it draws a staircase of terraces that reads as sea-floor
+        # structure. Smooth ONLY the filled region — the artifact is in the
+        # upsample, not in the data (TRAPS: quantisation reads as structure).
+        Ez9s = Ez9.astype(np.float32)
+        for _ in range(6):
+            Ez9s = (Ez9s + np.roll(Ez9s, 1, 0) + np.roll(Ez9s, -1, 0)
+                    + np.roll(Ez9s, 1, 1) + np.roll(Ez9s, -1, 1)) / 5.0
+        E = np.where(nod, Ez9s, E)
+        still = float(np.mean(E == 0.0))
+        print(f"  {view}: {frac*100:.1f}% no-data at z{VIEWS[view][4]} "
+              f"backfilled from z9 → {still*100:.1f}% remaining")
     gy, gx = np.gradient(E, mpp)
     # hillshade, sun from the NW at 45 degrees
     az, alt = math.radians(315), math.radians(45)
